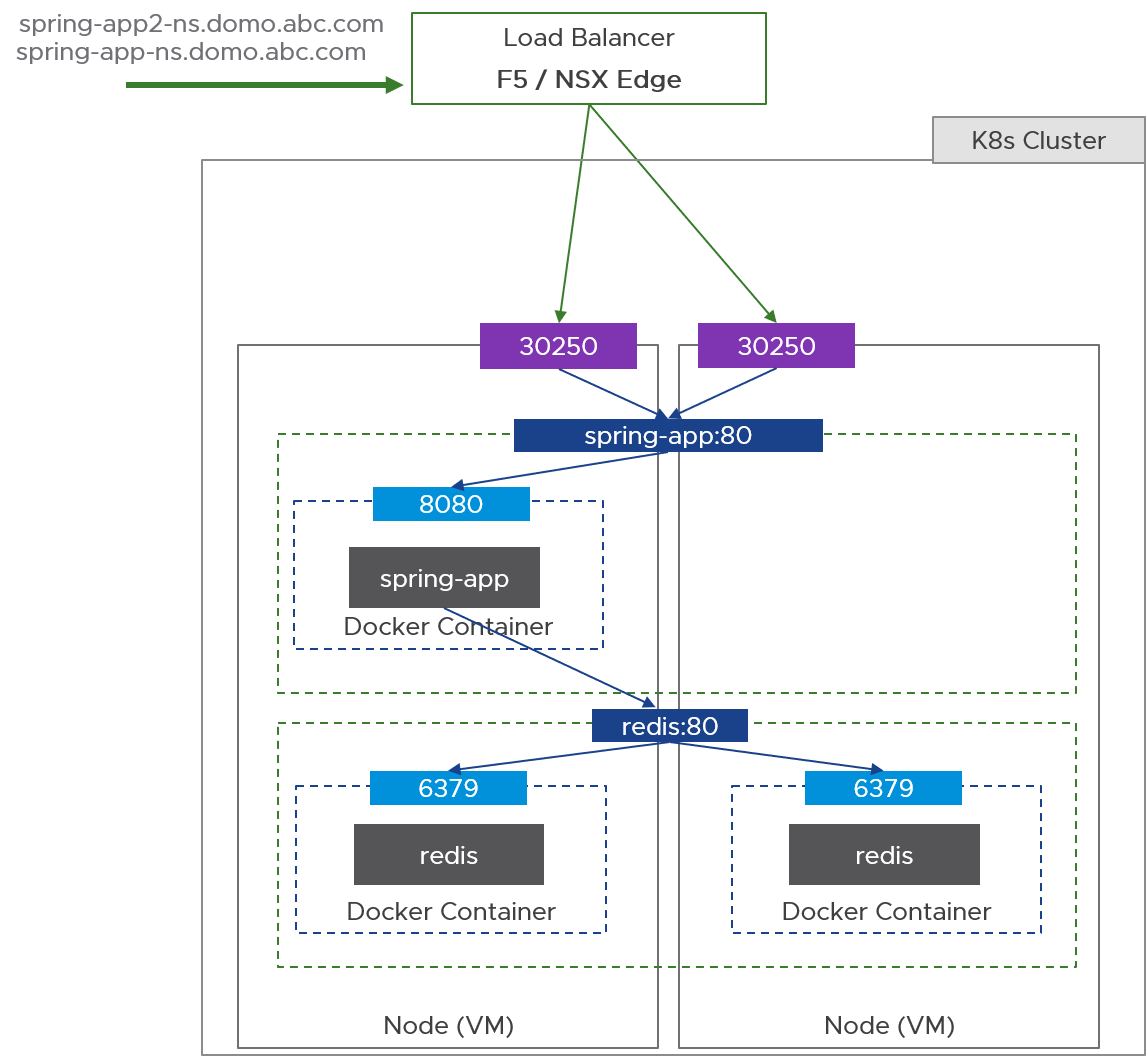
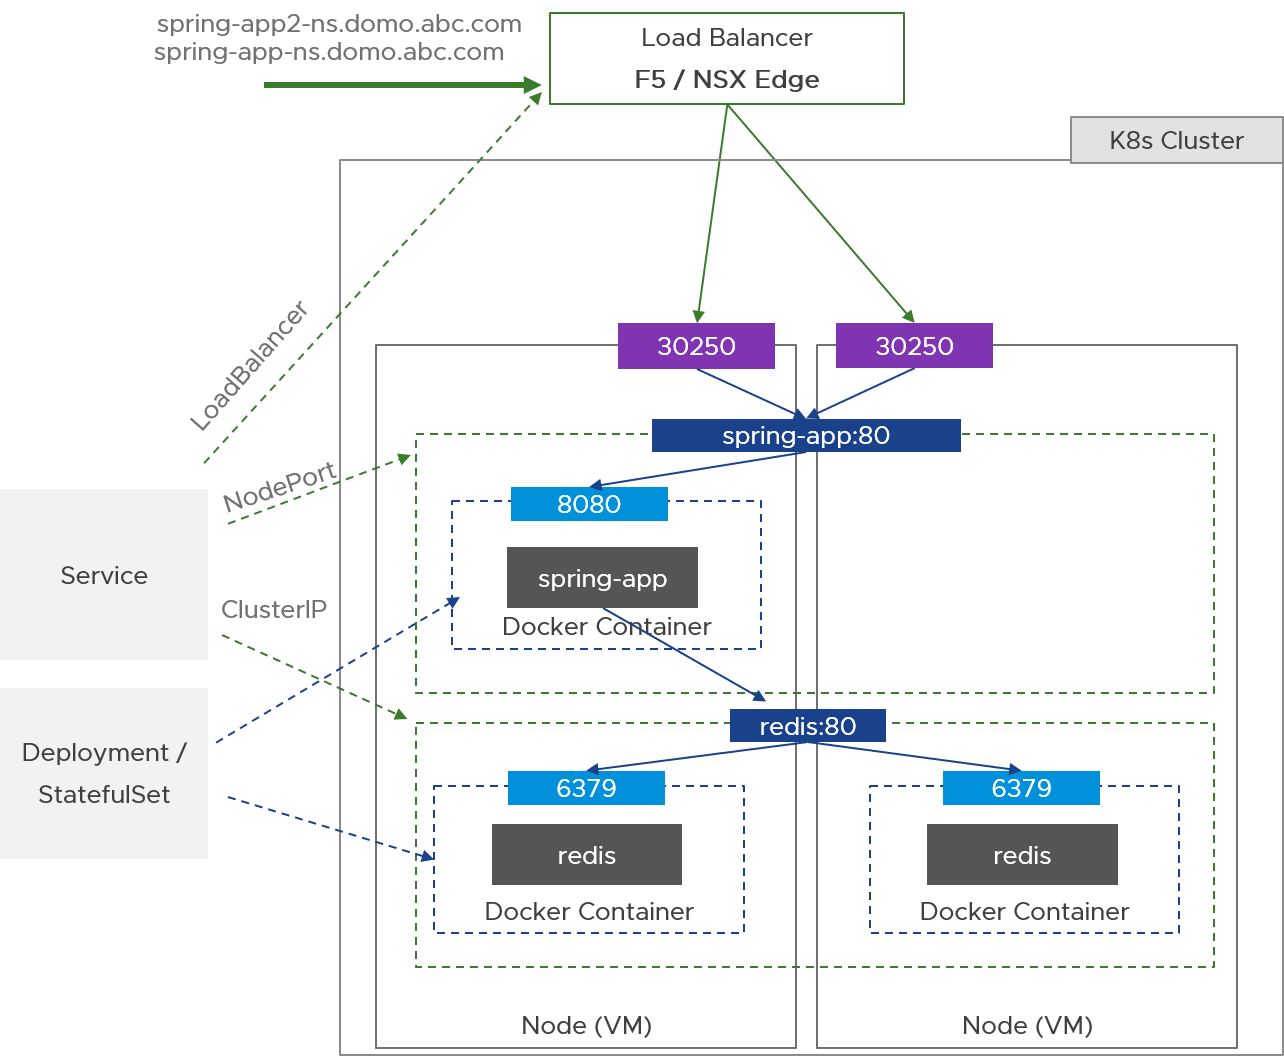
configmap and secrets

diff --git a/docs/k8s/core-concepts.md b/docs/k8s/core-concepts.md
@@ -43,7 +43,7 @@ spec:
    
 ```
 ### Application’s resource requirements
-- CPU and memory are collectively referred to as compute resources. 
+- CPU and Memory are collectively referred to as compute resources. 
 - Each Container of a Pod can specify one or more resources configuration for `requests` and `limit`
 - K8s select the Node where to run the Pod based on the resources availabilty as defined by above configuration
 - **Memory** are measured in bytes (e.g 2Gi, 512Mi, 1024Ki)
@@ -58,12 +58,10 @@ spec:
 - See a pod details  `kcs describe pods/<pod_name>` (Events , Resource alocated , Laster Run status etc.) - Get last status `kcs get pods/<pod_name> -o go-template="{{range .status.containerStatuses}}{{.lastState.terminated.reason}}{{end}}"`
 
 
-### Why Label ? How to use it 
-- Labels are key/value pairs that are attached to objects as part of Object Spec
+### Label , Selectors, and Annotations
+- ***Labels*** are key/value pairs that are attached to objects as part of Object Spec
 - Allowed character are ([a-z0-9A-Z]) with dashes (-), underscores (_), dots (.)
-
-### Selectors, and Annotations
-- The label selector is the core grouping primitive in Kubernetes. Via Label selector client/user can identify a set of objects. 
+- The ***Label Selector*** is the core grouping primitive in Kubernetes. Via Label selector client/user can identify a set of objects. 
 - Label selector can be either equality-based and set-based
 - **equality-based**  . Available in type Service , Deployment , ReplicaSet , Job and DeamonSet
 ```yaml
@@ -73,6 +71,7 @@ spec:
     app: hello-world
 ... 
 ``` 
+
 - **set-based** . Available in type Deployment , ReplicaSet , Job and DeamonSet
 ```yaml
 ...
@@ -81,8 +80,8 @@ spec:
   matchLabels:
     app: hello-world #Equality based
   matchExpressions: #Set based
-    - {key: tier, operator: In, values: [cache]}
-    - {key: environment, operator: NotIn, values: [dev]}
+    - {key: tier, operator: In, values: [backend]}
+    - {key: env, operator: NotIn, values: [dev]}
 ...
 ```
 
@@ -113,9 +112,9 @@ spec:
       targetPort: 9376 #Target Pod's PORT
       nodePort: 30620 #Will discuss this below. Nodes port from where kube-proxy can forward the traffic
 ```
-- It enabled Traffic proxing from it's own `Service' clusterIP:port` to `Pod clusterIPs:targetPort`
-- This create a DNS entry `hello-world-service` resolving to it's own IP
-- In case it's NodePort it map the any Node(VM) `nodePort` traffic to be forwarded to `Service clusterIP:port` 
+- It enables Traffic proxing from it's own `Service' clusterIP:port` to `Pod clusterIPs:targetPort`
+- This create a DNS entry `hello-world-service` resolving to it's own `Service' clusterIP`
+- In case it's NodePort it enabled Traffic from any Node(VM)'s `nodePort` traffic to be forwarded to `Service clusterIP:port` 
 
 ### ClusterIP 
 (Default) Exposes the Service on a cluster-internal IP. This makes the Service only reachable from within the cluster via just `{servicename}` or `{servicename}.{namespace}.svc.cluster.local`
@@ -125,7 +124,6 @@ spec:
 Exposes the Service on each Node’s IP at a static port (the NodePort). Service can be accessed via `<NodeIP>:<NodePort>` from Outside.
 - **NodePort** is an open port on every node of your cluster
 - Kubernetes transparently routes incoming traffic on the NodePort to your service, even if your application is running on a different node.
-
 
 ### LoadBalancer
 Exposes the Service externally using a cloud provider’s Load Balancer. 
@@ -151,22 +149,64 @@ spec:
   externalName: my.database.example.com
 ```
 
-## Configuration Management
-### ConfigMaps
-### Secrets
+## Configuration Management (ConfigMaps and Secrets)
+- K8s provides ConfigMaps and Secrets to store environment ewlated Properties as key vlaue pair
+- It has **ConfigMaps** and **Secrets** which can be created using `yaml` definition. 
+  - Secrets values are obfuscated with a Base64 encoding
+- Here is how to define a  ConfigMap or Secrets
+```yaml
+kind: ConfigMap # can be Secrets
+apiVersion: v1
+metadata:
+  name: hello-world-cm # Secrets name would be  hello-world-secrets
+  labels:
+    app: hello-world
+data: 
+  username: admin #In ccase it's Secrets value will be YWRtaW4= (Base64 of admin is YWRtaW4=)
+  ...
+```
+### How to use ComfigMap/Secrets 
+Define a container environment variable with data from a single ConfigMap/Secret
 
+```yaml
+apiVersion: v1
+kind: Pod
+metadata:
+  name: hello-world
+spec:
+  containers:
+  - name: hello-world-cntr
+    ...
+    env:
+    - name: USERNAME
+      valueFrom:
+        configMapKeyRef: # For Secrets use secretKeyRef
+          name: hello-world-cm # Can be hello-world-secrets
+          key: username
+    ...
+```
 
-## Pods in Details
+Mount as a Volume and read from it
 
-**Tips**
+```yaml
+apiVersion: v1
+kind: Pod
+metadata:
+  name: hello-world
+spec:
+  containers:
+  - name: hello-world-cntr
+    ...
+    command: [ "/bin/sh", "-c", "ls /etc/config/" ]
+    volumeMounts:
+      - name: config-volume
+        mountPath: /etc/config
+  volumes:
+    - name: config-volume
+      configMap:
+        name: hello-world-cm
 
-- If application takes time on startup configure a [startupProbe](https://kubernetes.io/docs/tasks/configure-pod-container/configure-liveness-readiness-startup-probes/#define-startup-probes)
+```
 
-**As we go through we will discuss**
-- Pods are created via Deployment , StatefulSet so that Self-healing , Auto Scaling and Rollup are handled via K8s
-- Health and Diagnostic check done by K8s. Usage of `livenessProbe` , `readinessProbe` and `startupProbe` 
-- **Advanced** Gracefully stoping of container and enable preStop hook with 30s wait time `--grace-period=30` 
-
-
-### Basic understanding of NetworkPolicies
-### PersistentVolumeClaims for storage
+## Basic understanding of NetworkPolicies
+## PersistentVolumeClaims for storage

diff --git a/docs/k8s/terminology.md b/docs/k8s/terminology.md
@@ -5,13 +5,29 @@ nav_order: 5
 parent: Kubernetes
 has_children: false
 ---
-# Terminology
-## Node
->A worker machine in Kubernetes, part of a cluster.
+# Master Components
+- Components needed to deliver a functioning Kubernetes cluster.
+- Master components make global decisions about the cluster (for example, scheduling), and they detect and respond to cluster events
 
-## Cluster
->A set of Nodes that run containerized applications managed by Kubernetes. For this example, and in most common Kubernetes deployments, nodes in the cluster are not part of the public internet.
+![K8s Cluster Arch](https://raw.githubusercontent.com/atishch/handbook/master/assets/k8s/k8s-cluster-arch.png)
 
+**Cluster**
+A set of Nodes that run containerized applications managed by Kubernetes. For this example, and in most common Kubernetes deployments, nodes in the cluster are not part of the public internet.
+
+**Node**
+A worker machine in Kubernetes, part of a cluster.
+
+## kube-apiserver
+## etcd
+## kube-scheduler
+## kube-controller-manager
+## cloud-controller-manager
+
+# Node Components
+
+
+
+# Common Terminologies
 ## Service
 >A Kubernetes Service that identifies a set of Pods using label selectors. Unless mentioned otherwise, Services are assumed to have virtual IPs only routable within the cluster network
 

diff --git a/docs/k8s/index.md b/docs/k8s/index.md
@@ -31,8 +31,9 @@ Containers are a type of software that can virtually package and isolate applica
 It's essential to understand below patterns as K8s has been built to natively support it.
 - ***Scalability*** , Scaling of Process (**Horizontal Scalling**) as needed
 - ***Availability*** , Automatically recover from faliure of service/process
-- ***Service Discovery*** , How a service discover another service's instance which is healthy to call
-- ***Reliability*** , Revover from service failures. Enter **Self Healing** , **Health Check** and most importantly  **Automatic Rollouts**
+- ***Service Discovery*** , How a service discover another service's instance which is healthy
+- ***Reliability*** , Revover from service failures and is enabled by **Health Check** , **Self Healing** and most importantly  **Automatic Rollouts**
+- ***Secret and configuration management*** , Drive all the changes and properties as Cnfiguration code
 - ***Observability*** , some aspects are supported nativily namely **Health Check** at least in a Primitive way
 - And many more...
   

diff --git a/docs/k8s/debugging.md b/docs/k8s/debugging.md
@@ -1,0 +1,18 @@
+---
+layout: default
+title: Troubleshooting
+nav_order: 8
+parent: Kubernetes
+has_children: false
+---
+
+# Pods
+
+**Tips**
+
+- If application takes time on startup configure a [startupProbe](https://kubernetes.io/docs/tasks/configure-pod-container/configure-liveness-readiness-startup-probes/#define-startup-probes)
+
+**As we go through we will discuss**
+- Pods are created via Deployment , StatefulSet so that Self-healing , Auto Scaling and Rollup are handled via K8s
+- Health and Diagnostic check done by K8s. Usage of `livenessProbe` , `readinessProbe` and `startupProbe` 
+- **Advanced** Gracefully stoping of container and enable preStop hook with 30s wait time `--grace-period=30` 
